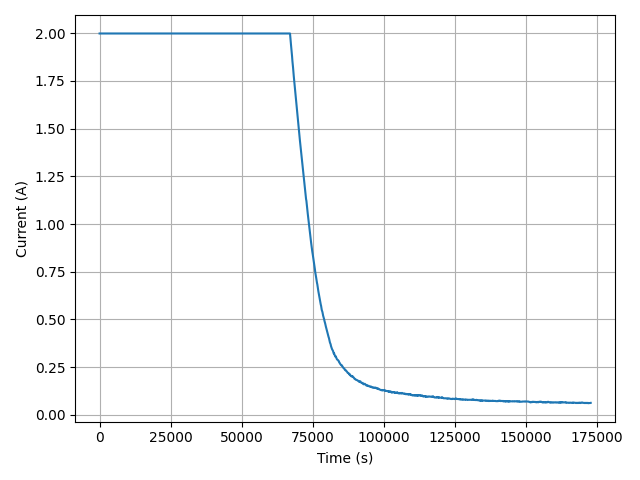
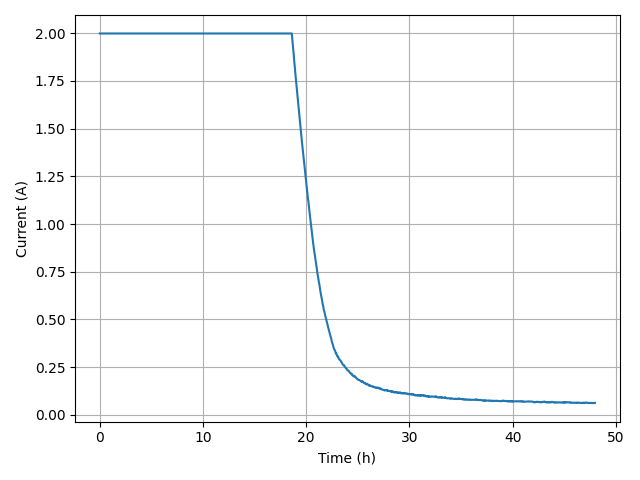
Update final plotting to plot x axis in hours

diff --git a/code/DischargeDataPlotter.py b/code/DischargeDataPlotter.py
@@ -17,8 +17,16 @@ RUN_ID = "3"
 CW_POWER = 12 # CW power in W
 MEASURING_TIME = 3 * day # Measuring time in s
 MEASURING_INTERVAL = 2 * min # Measuring interval in s
+plot_x_in_hours = True # Flag to choose if we are plotting x axis in hours instead of seconds
 
 path = f'data/discharging/plots/final/RUN_ID-{RUN_ID}'
+
+if plot_x_in_hours:
+    x_label = "Time (h)"
+    time_factor = 3600
+else:
+    x_label = "Time (s)"
+    time_factor = 1
 
 # Check whether the specified path exists or not
 isExist = os.path.exists(path)
@@ -39,8 +47,8 @@ def main():
 
     # Plot data in linear and log scale
     for yscale in ["linear", "log"]:
-        plt.plot(t_array, I_array)
-        plt.xlabel('Time (s)')
+        plt.plot(t_array / time_factor, I_array)
+        plt.xlabel(x_label)
         plt.ylabel('Current (A)')
         plt.yscale(yscale)
         plt.grid(True, "both")
@@ -48,8 +56,8 @@ def main():
         plt.savefig(f"{path}/CURRENT_{yscale}_DischargeData_RUN_ID-{RUN_ID}_POWER-{CW_POWER}_TIME-{MEASURING_TIME}_INTERVAL-{MEASURING_INTERVAL}.png")
         plt.close()
 
-        plt.plot(t_array, U_array)
-        plt.xlabel('Time (s)')
+        plt.plot(t_array / time_factor, U_array)
+        plt.xlabel(x_label)
         plt.ylabel('Voltage (V)')
         plt.yscale(yscale)
         plt.grid(True, "both")
@@ -57,8 +65,8 @@ def main():
         plt.savefig(f"{path}/VOLTAGE_{yscale}_DischargeData_RUN_ID-{RUN_ID}_POWER-{CW_POWER}_TIME-{MEASURING_TIME}_INTERVAL-{MEASURING_INTERVAL}.png")
         plt.close()
 
-        plt.plot(t_array, P_array)
-        plt.xlabel('Time (s)')
+        plt.plot(t_array / time_factor, P_array)
+        plt.xlabel(x_label)
         plt.ylabel('Power (W)')
         plt.yscale(yscale)
         plt.grid(True, "both")

diff --git a/code/PowerSupplyDataPlotter.py b/code/PowerSupplyDataPlotter.py
@@ -18,9 +18,16 @@ CC_CURRENT = 2 # CC current in A
 CC_VOLTAGE = 9*1.50 # CC max voltage in V
 MEASURING_TIME = 48 * hour # Measuring time in s
 MEASURING_INTERVAL = 2 * min # Measuring interval in s
-NUMBER_OF_TIMES_TO_PLOT = 10 # Amount of times to do plotting during the measure interval
+plot_x_in_hours = True # Flag to choose if we are plotting x axis in hours instead of seconds
 
 path = f'data/charging/plots/final/RUN_ID-{RUN_ID}'
+
+if plot_x_in_hours:
+    x_label = "Time (h)"
+    time_factor = 3600
+else:
+    x_label = "Time (s)"
+    time_factor = 1
 
 # Check whether the specified path exists or not
 isExist = os.path.exists(path)
@@ -41,8 +48,8 @@ def main():
 
     # Plot data in linear and log scale
     for yscale in ["linear", "log"]:
-        plt.plot(t_array, I_array)
-        plt.xlabel('Time (s)')
+        plt.plot(t_array / time_factor, I_array)
+        plt.xlabel(x_label)
         plt.ylabel('Current (A)')
         plt.yscale(yscale)
         plt.grid(True, "both")
@@ -50,8 +57,8 @@ def main():
         plt.savefig(f"{path}/CURRENT_{yscale}_PowerSupplyData_RUN_ID-{RUN_ID}_CURRENT-{CC_CURRENT}_VOLTAGE-{CC_VOLTAGE}_TIME-{MEASURING_TIME}_INTERVAL-{MEASURING_INTERVAL}.png")
         plt.close()
 
-        plt.plot(t_array, U_array)
-        plt.xlabel('Time (s)')
+        plt.plot(t_array / time_factor, U_array)
+        plt.xlabel(x_label)
         plt.ylabel('Voltage (V)')
         plt.yscale(yscale)
         plt.grid(True, "both")
